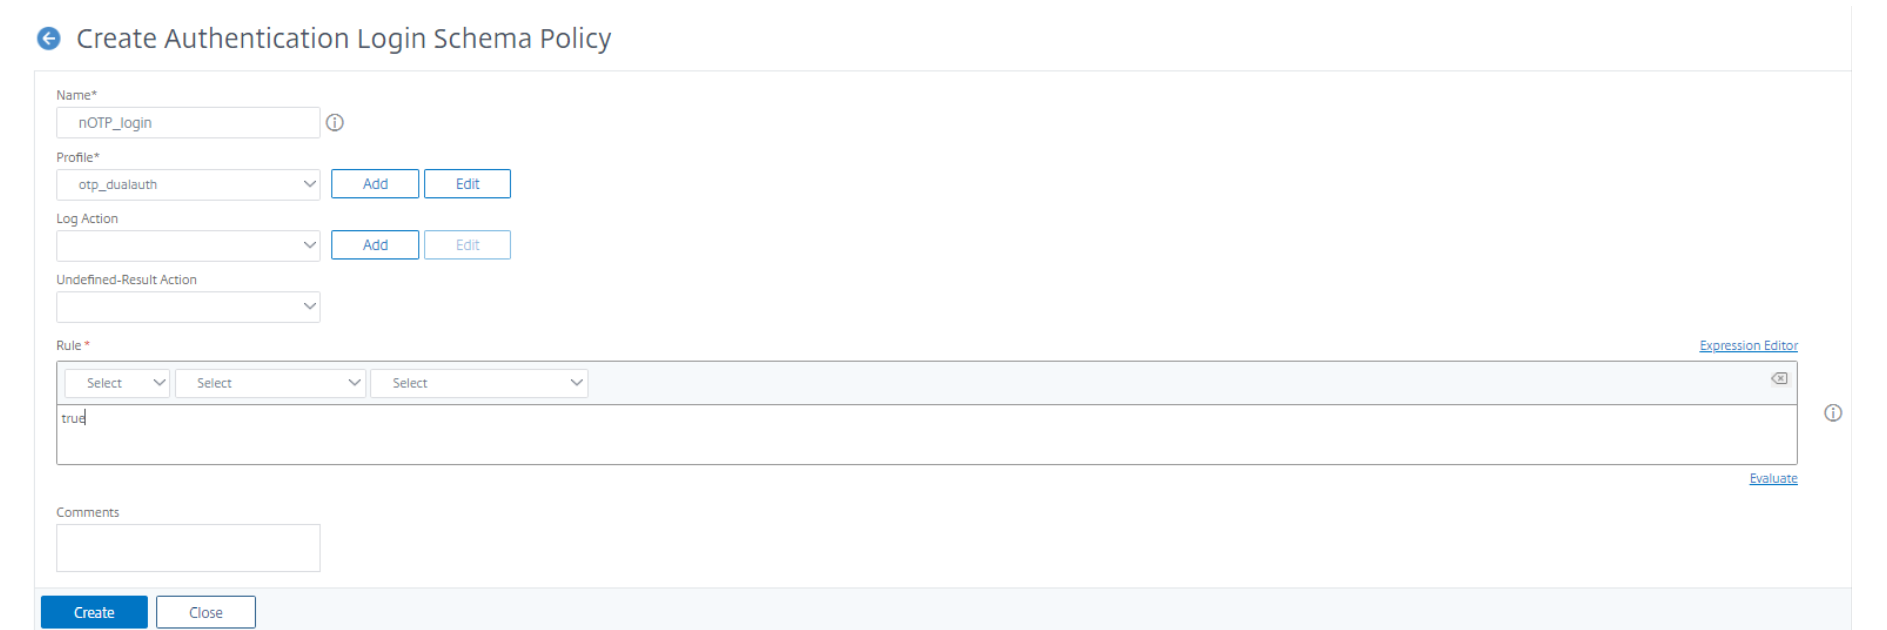
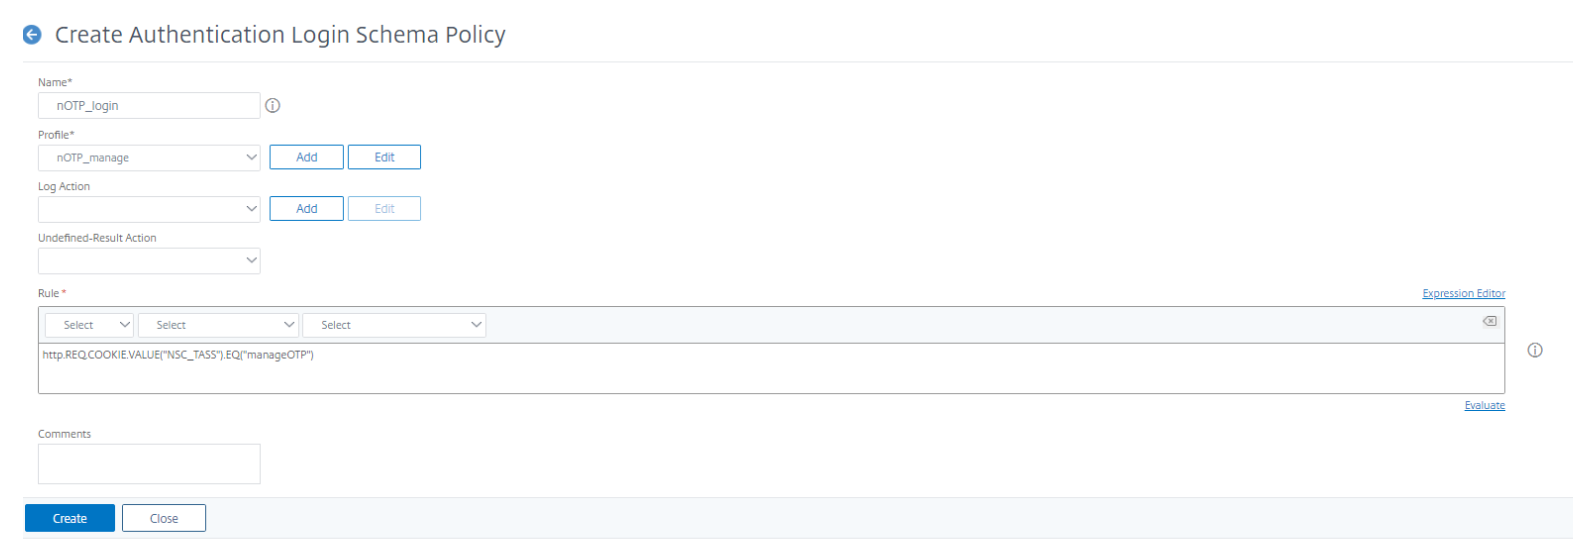
fixes

diff --git a/en-us/tech-zone/learn/poc-guides/nfactor-citrix-gateway-native-otp.md b/en-us/tech-zone/learn/poc-guides/nfactor-citrix-gateway-native-otp.md
@@ -6,9 +6,7 @@ description: Learn how to implement an extensible and flexible approach to confi
 
 ## Contributors
 
-**Author:** [Alyssa Ramella]
-
-**Special Thanks:** [Matthew Brooks](https://twitter.com/tweetmattbrooks)
+**Author:** Alyssa Ramella, [Matthew Brooks](https://twitter.com/tweetmattbrooks)
 
 ## Introduction
 
@@ -49,7 +47,7 @@ Refer to Citrix Documentation for the latest product version and license require
 
 1.  Navigate to '**Security > AAA** - **Application Traffic > Virtual Servers**'
 1.  Select 'Add'
-1.  Create a new virtual server populating the fields as seen in the following image and click OK:
+1.  Create a new virtual server, that's non-addressable, and click OK:
 ![Native OTP Virtual Server](/en-us/tech-zone/learn/media/poc-guides_nfactor-citrix-gateway-native-otp_vserver.png)
 1.  Select 'No Server Certificate' then select and bind the domain certificate that was checked for in the steps above. Click continue.
 1.  Click 'Continue' again.
@@ -104,15 +102,18 @@ We will now create the second authentication policy for validation.
 We will now create 2 Login Schemas.
 
 1.  Navigate to '**Security > AAA-Application Traffic > Login Schema**'
-1.  Click 'Add'
+1.  Select the Profiles tab, and Click 'Add'
 1.  Enter a name for your Login Schema
-1.  Click 'Add' under Profile and give your Profile a name
+1.  Click 'Add' under Profile and give your Profile a name. We enter 'otp_dualauth'
 1.  Click the pencil icon next to 'noschema'
 ![Login Schema Profile](/en-us/tech-zone/learn/media/poc-guides_nfactor-citrix-gateway-native-otp_loginschema.png)
 1.  Click 'Login Schema' and scroll down to select 'DualauthOrOTPRegisterDynamic.xml' and select the blue 'Select' in the right corner.
 ![DualAuthOrOTP](/en-us/tech-zone/learn/media/poc-guides_nfactor-citrix-gateway-native-otp_dualauth.png)
 1.  Click 'Create'
-1.  Enter 'true' under Rule and click 'Create'
+1.  Now select the Policies tab, and Click 'Add'
+1.  Enter a policy name. We use 'nOTP_login'
+1.  From the Profile drop down select  'otp_dualauth' we just created.
+1.  Under Rule enter 'http.REQ.COOKIE.VALUE("NSC_TASS").eq("manageOTP") and click 'Create'
 ![Final Login Schema](/en-us/tech-zone/learn/media/poc-guides_nfactor-citrix-gateway-native-otp_finalschema.png)
 
 Similarly, we will create a second login schema by clicking 'Add' again.
@@ -122,7 +123,7 @@ Similarly, we will create a second login schema by clicking 'Add' again.
 1.  Click 'LoginSchema' and scroll down to select 'SingleAuthManageOTP.xml'
 ![Second Login Schema](/en-us/tech-zone/learn/media/poc-guides_nfactor-citrix-gateway-native-otp_singleauth.png)
 1.  Click the blue 'Select' button and then click 'Create'
-1.  For this rule, we enter 'http.REQ.COOKIE.VALUE("NSC_TASS").eq("manageOTP"). Feel free to use the drop-down lists.
+1.  Under Rule enter 'true' and click 'Create'
 ![Second Login Schema Final](/en-us/tech-zone/learn/media/poc-guides_nfactor-citrix-gateway-native-otp_finallogin.png)
 1.  Click 'Create'
 
@@ -147,6 +148,43 @@ Next we bind our Login Schemas.
 1.  In a similar fashion, bind your other login schema
 
 You must bind your login schema's in this order.
+
+## User Endpoint
+
+Now we test Native OTP by authenticating into our Citrix Virtual Apps and Desktops environment.
+
+### Registration with Citrix SSO app
+
+1.  Open a browser, and navigate to the domain FQDN managed by the Citrix Gateway with /manageotp appended to the end of the FQDN. We use `https://citrixadc5.workspaces.wwco.net/manageotp`
+1.  After your browser is redirected to a login screen enter user UPN and password
+![PUSH Authentication](/en-us/tech-zone/learn/media/poc-guides_nfactor-citrix-gateway-push-token_regldaplogin.png)
+1.  On the next screen select Add Device, enter a name. We use `iPhone7`
+![PUSH Authentication](/en-us/tech-zone/learn/media/poc-guides_nfactor-citrix-gateway-push-token_regadddevice.png)
+1.  Select Go and a QR code will appear
+![PUSH Authentication](/en-us/tech-zone/learn/media/poc-guides_nfactor-citrix-gateway-push-token_regqrcodedisplay.png)
+1.  On your mobile device open your Citrix SSO app which is available for download from apps stores
+1.  Select Add New Token
+1.  Select Scan QR Code
+![PUSH Authentication](/en-us/tech-zone/learn/media/poc-guides_nfactor-citrix-gateway-push-token_regssoqrcode.png)
+1.  Select Aim your camera at the QR Code and once it`s captured select Add
+![PUSH Authentication](/en-us/tech-zone/learn/media/poc-guides_nfactor-citrix-gateway-push-token_regssoscanqrcode.png)
+1.  Select Save to store the token
+![PUSH Authentication](/en-us/tech-zone/learn/media/poc-guides_nfactor-citrix-gateway-push-token_regssosave.png)
+1.  The Token is now active and begins displaying OTP codes at 30 second intervals
+![PUSH Authentication](/en-us/tech-zone/learn/media/poc-guides_nfactor-citrix-gateway-push-token_regssotoken.png)
+1.  Select Done and you will see confirmation that the device was added successfully
+![PUSH Authentication](/en-us/tech-zone/learn/media/poc-guides_nfactor-citrix-gateway-push-token_addeddevicesuccessfully.png)
+
+### Citrix Virtual Apps and Desktops Authentication, Publication, and Launch
+
+1.  Open a browser, and navigate to the domain FQDN managed by the Citrix Gateway. We use `https://citrixadc5.workspaces.wwco.net`
+1.  After your browser is redirected to a login screen enter user userPrincipalName and password
+![Email OTP](/en-us/tech-zone/learn/media/poc-guides_nfactor-citrix-gateway-email-otp_regldaplogin.png)
+1.  Open the authenticator app and copy the OTP code
+1.  Return to your browser where the user name is populated, paste the code, and click OK
+![Email OTP](/en-us/tech-zone/learn/media/poc-guides_nfactor-citrix-gateway-email-otp_emailcodelogin.png)
+1.  Verify the users virtual apps, and desktops are enumerated, and launch once logged in
+![Email OTP](/en-us/tech-zone/learn/media/poc-guides_nfactor-citrix-gateway-email-otp_cvadlogin.png)
 
 ## Summary
 
